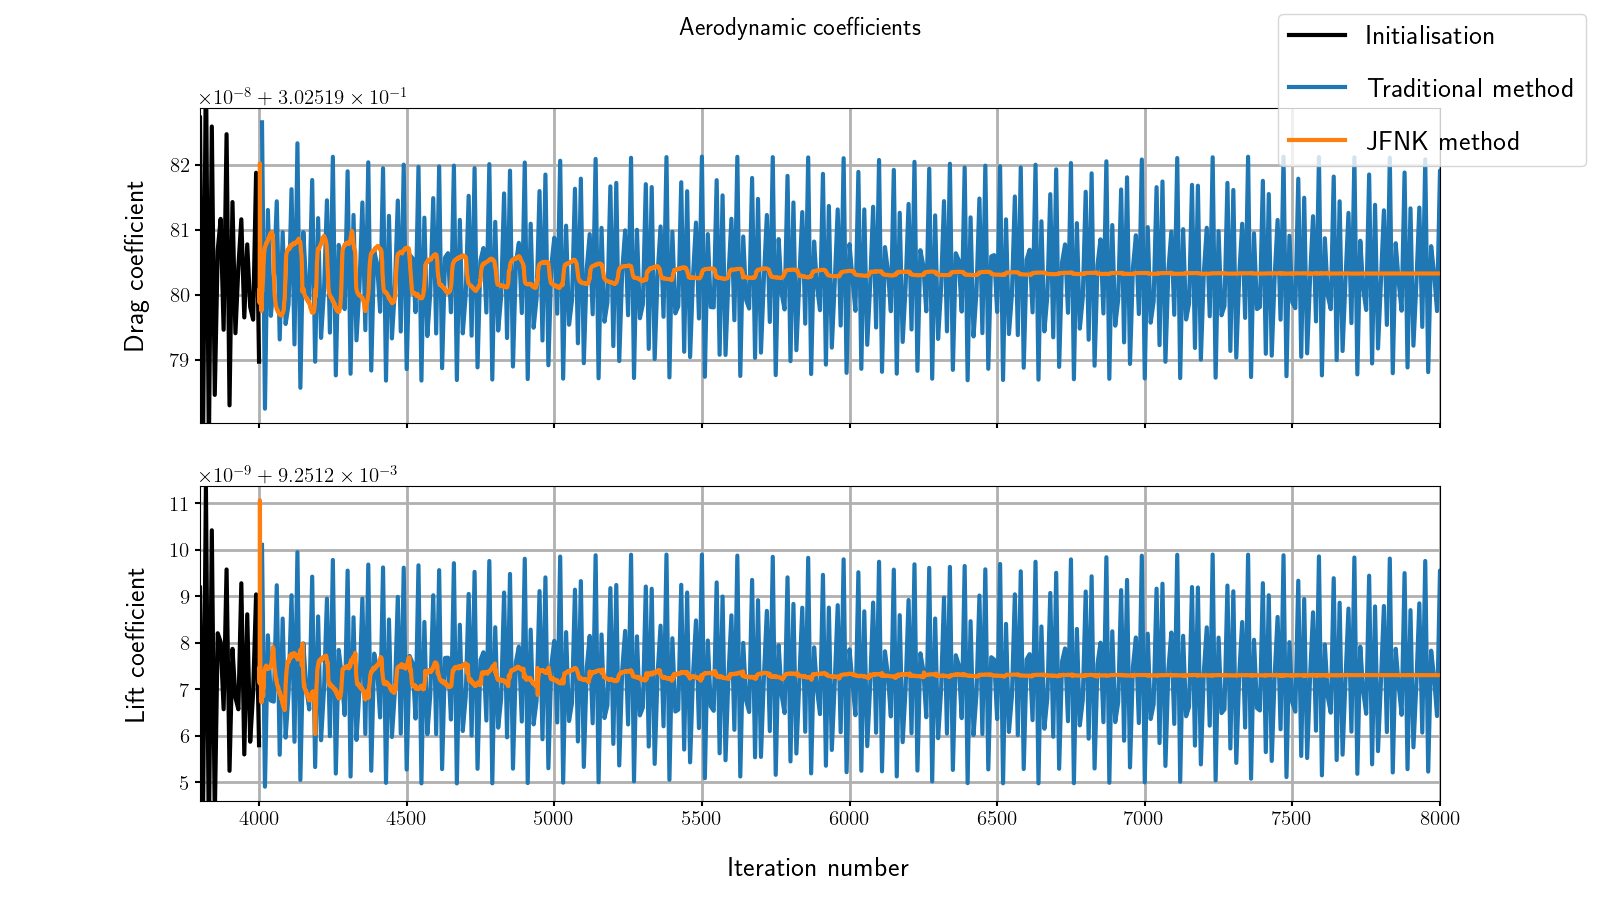
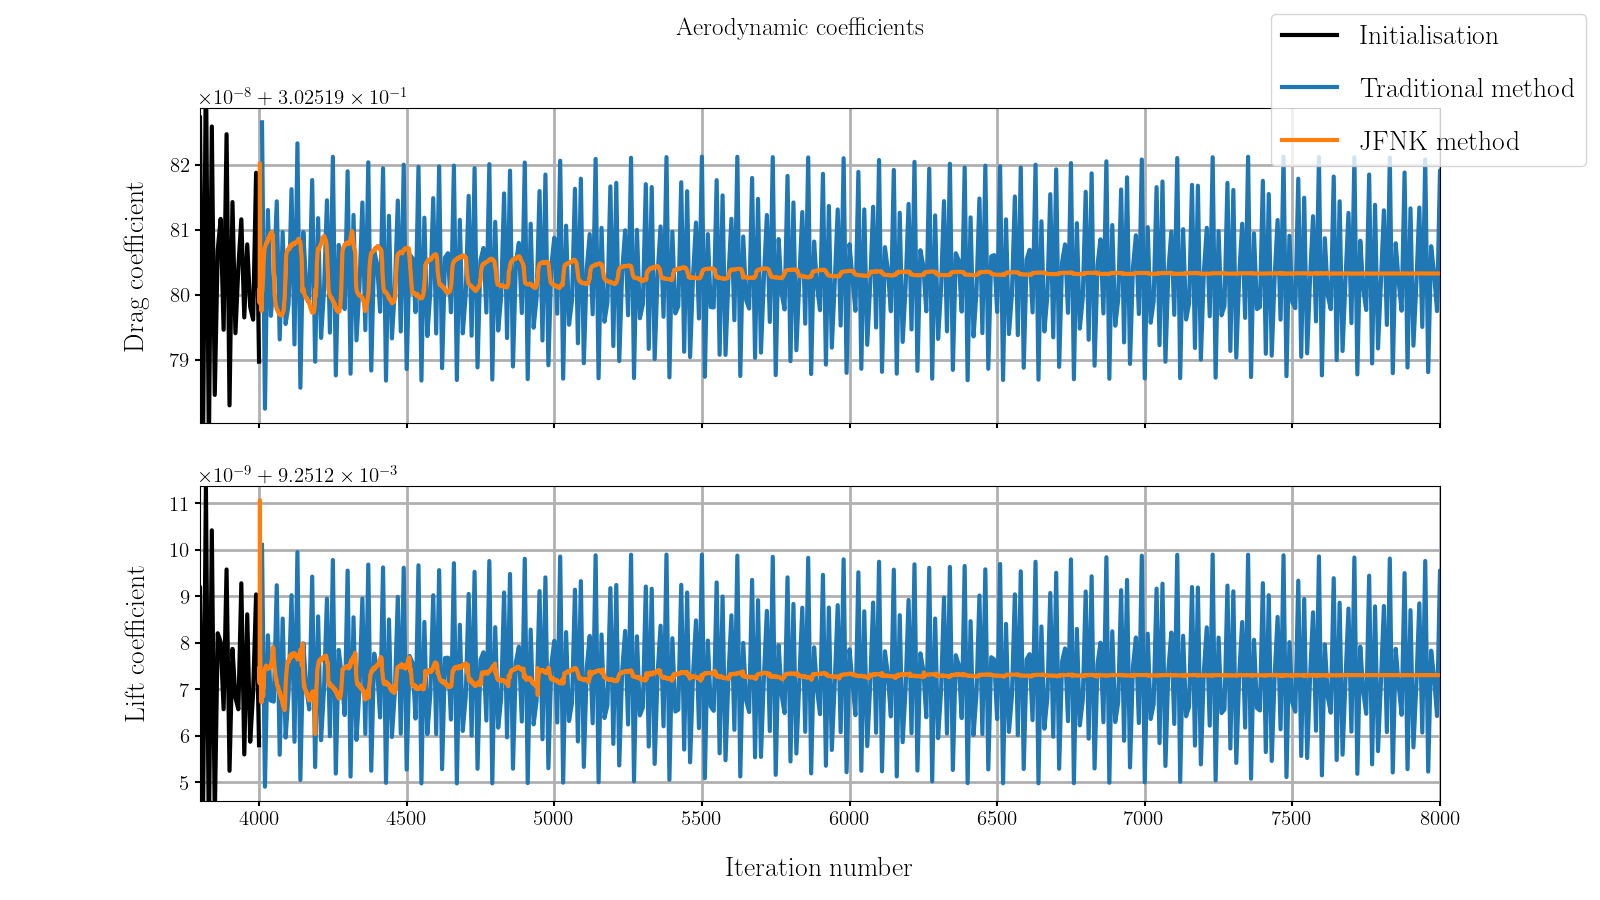
Changing fonts

diff --git a/figures/figures_matplotlib.py b/figures/figures_matplotlib.py
@@ -24,7 +24,9 @@ plt.rcParams.update({
     'lines.linewidth': 3,
     'text.latex.preamble': r"\usepackage{amsmath}",
     'text.usetex': True,
-    'font.size': 15
+    'font.size': 15,
+    'mathtext.fontset': 'cm',
+    'font.family': 'STIXGeneral'
 })
 
 
@@ -68,54 +70,54 @@ def fig_rk():
 
 
 def fig_bdf():
-    plt.rcParams['text.latex.preamble'] = r'\usepackage{sfmath} \boldmath'
+    with plt.rc_context({'text.latex.preamble': r'\usepackage{sfmath} \boldmath'}):
 
-    def r(k):
-        def sub_r(z):
-            coeff = np.zeros(k + 1, dtype=complex)
-            for _i in range(1, k + 1):
-                coeff[0] += 1 / _i
-                coeff[_i] = np.power(-1, _i) * scipy.special.binom(k, _i) / _i
-            coeff[0] -= z
-            return (np.abs(np.roots(coeff)) < 1).all()
+        def r(k):
+            def sub_r(z):
+                coeff = np.zeros(k + 1, dtype=complex)
+                for _i in range(1, k + 1):
+                    coeff[0] += 1 / _i
+                    coeff[_i] = np.power(-1, _i) * scipy.special.binom(k, _i) / _i
+                coeff[0] -= z
+                return (np.abs(np.roots(coeff)) < 1).all()
 
-        return np.vectorize(sub_r)
+            return np.vectorize(sub_r)
 
-    fig = plt.figure(figsize=(16, 10))
-    c = [.8, .0, .0, 1]
-    for (i, x_min, x_max, y_min, y_max) in zip((1, 2, 3, 4, 5, 6),
-                                               (-2, -2, -4, -4, -10, -20),
-                                               (3, 5, 8, 14, 25, 40),
-                                               (-2, -3, -5, -8, -15, -30),
-                                               (2, 3, 5, 8, 15, 30),
-                                               ):
-        res_x = 500
-        res_y = 500
+        fig = plt.figure(figsize=(16, 10))
+        c = [.8, .0, .0, 1]
+        for (i, x_min, x_max, y_min, y_max) in zip((1, 2, 3, 4, 5, 6),
+                                                   (-2, -2, -4, -4, -10, -20),
+                                                   (3, 5, 8, 14, 25, 40),
+                                                   (-2, -3, -5, -8, -15, -30),
+                                                   (2, 3, 5, 8, 15, 30),
+                                                   ):
+            res_x = 500
+            res_y = 500
 
-        x, y = np.meshgrid(np.linspace(x_min, x_max, res_x), np.linspace(y_min, y_max, res_y))
+            x, y = np.meshgrid(np.linspace(x_min, x_max, res_x), np.linspace(y_min, y_max, res_y))
 
-        ax = fig.add_subplot(2, 3, i)
-        ax.grid(False)
-        ax.set_aspect('equal')
-        for axis in ('left', 'bottom'):
-            ax.spines[axis].set_position('zero')
-            ax.spines[axis].set_linewidth(2)
-        for axis in ('right', 'top'):
-            ax.spines[axis].set_color('none')
-        ax.xaxis.set_tick_params(labelsize=20)
-        ax.yaxis.set_tick_params(labelsize=20)
-        ax.yaxis.tick_left()
-        ax.xaxis.tick_bottom()
-        rk_i = r(i)(x + 1j * y)
-        ax.pcolormesh(x, y, np.ma.masked_array(rk_i, mask=1 - rk_i), cmap=matplotlib.colors.ListedColormap([c]),
-                      shading='auto')
-        ax.plot([None], '--', c=c, lw=20)
-        ax.set_title(r'\textbf{{ BDF{0} }}'.format(i), y=-.1, fontsize=30, pad=-10)
-        ax.grid(True)
+            ax = fig.add_subplot(2, 3, i)
+            ax.grid(False)
+            ax.set_aspect('equal')
+            for axis in ('left', 'bottom'):
+                ax.spines[axis].set_position('zero')
+                ax.spines[axis].set_linewidth(2)
+            for axis in ('right', 'top'):
+                ax.spines[axis].set_color('none')
+            ax.xaxis.set_tick_params(labelsize=20)
+            ax.yaxis.set_tick_params(labelsize=20)
+            ax.yaxis.tick_left()
+            ax.xaxis.tick_bottom()
+            rk_i = r(i)(x + 1j * y)
+            ax.pcolormesh(x, y, np.ma.masked_array(rk_i, mask=1 - rk_i), cmap=matplotlib.colors.ListedColormap([c]),
+                          shading='auto')
+            ax.plot([None], '--', c=c, lw=20)
+            ax.set_title(r'\textbf{{ BDF{0} }}'.format(i), y=-.1, fontsize=30, pad=-10)
+            ax.grid(True)
 
-    plt.subplots_adjust(0.00, 0.075, 1.0, 0.99, 0.05, 0.25)
-    # plt.show()
-    plt.savefig("bdf_stab.png", transparent=True)
+        plt.subplots_adjust(0.00, 0.075, 1.0, 0.99, 0.05, 0.25)
+        # plt.show()
+        plt.savefig("bdf_stab.png", transparent=True)
 
 
 def fig_ab():
@@ -148,7 +150,7 @@ def fig_ab():
             coeff = np.zeros(k + 1, dtype=complex)
             coeff[0] = 1
             for _i in range(1, k + 1):
-                coeff[i] = -z * lbd(_i - 1, k)
+                coeff[_i] = -z * lbd(_i - 1, k)
             coeff[1] -= 1
             return (np.abs(np.roots(coeff)) <= 1).all()
 
@@ -749,8 +751,6 @@ def covo_rk2_rk4():
         lines_rk4.append(ax.loglog(data_x, data_y, 'x-', lw=2, ms=8, label="RK4, N = {0}".format(mesh))[0])
         ax.loglog([0.01, 0.1], [data_y[0], data_y[0]], 'k--', lw=2)
 
-    matplotlib.rcParams['mathtext.fontset'] = 'cm'
-    matplotlib.rcParams['font.family'] = 'STIXGeneral'
     ax.legend([lines_rk2, lines_rk4], ['RK2', 'RK4'], loc='lower center', bbox_to_anchor=(0.8, 0.1),
               handler_map={list: matplotlib.legend_handler.HandlerTuple(ndivide=None)}, handlelength=6)
     ax.text(0.1, 0.9, r'$16 \times 16$', transform=ax.transAxes, fontsize=20,
